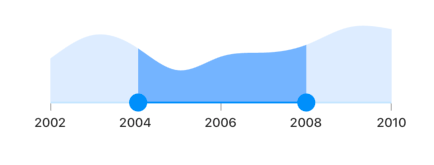
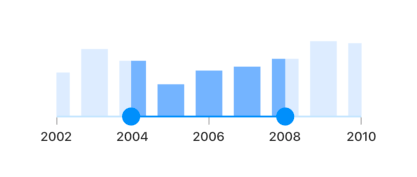
FLUT-778-[feature][flutter]: Added interval content images

Changed region(s): [[0.0624, 0.1515, 0.9041, 0.8182], [0.8106, 0.697, 0.9353, 0.8182]]

diff --git a/Flutter/range-selector/interval.md b/Flutter/range-selector/interval.md
@@ -56,8 +56,8 @@ Widget build(BuildContext context) {
                             isVisible: false,),
                         primaryYAxis: NumericAxis(isVisible: false),
                         plotAreaBorderWidth: 0,
-                        series: <SplineAreaSeries<Data, double>>[
-                            SplineAreaSeries<Data, double>(
+                        series: <ColumnSeries<Data, double>>[
+                            ColumnSeries<Data, double>(
                                 color: Color.fromARGB(255, 126, 184, 253),
                                 dataSource: chartData,
                                     xValueMapper: (Data sales, _) => sales.x,
@@ -144,8 +144,8 @@ Widget build(BuildContext context) {
                             isVisible: false,),
                         primaryYAxis: NumericAxis(isVisible: false),
                         plotAreaBorderWidth: 0,
-                        series: <SplineAreaSeries<Data, DateTime>>[
-                            SplineAreaSeries<Data, DateTime>(
+                        series: <ColumnSeries<Data, DateTime>>[
+                            ColumnSeries<Data, DateTime>(
                                 color: Color.fromARGB(255, 126, 184, 253),
                                 dataSource: chartData,
                                 xValueMapper: (Data sales, _) => sales.x,
